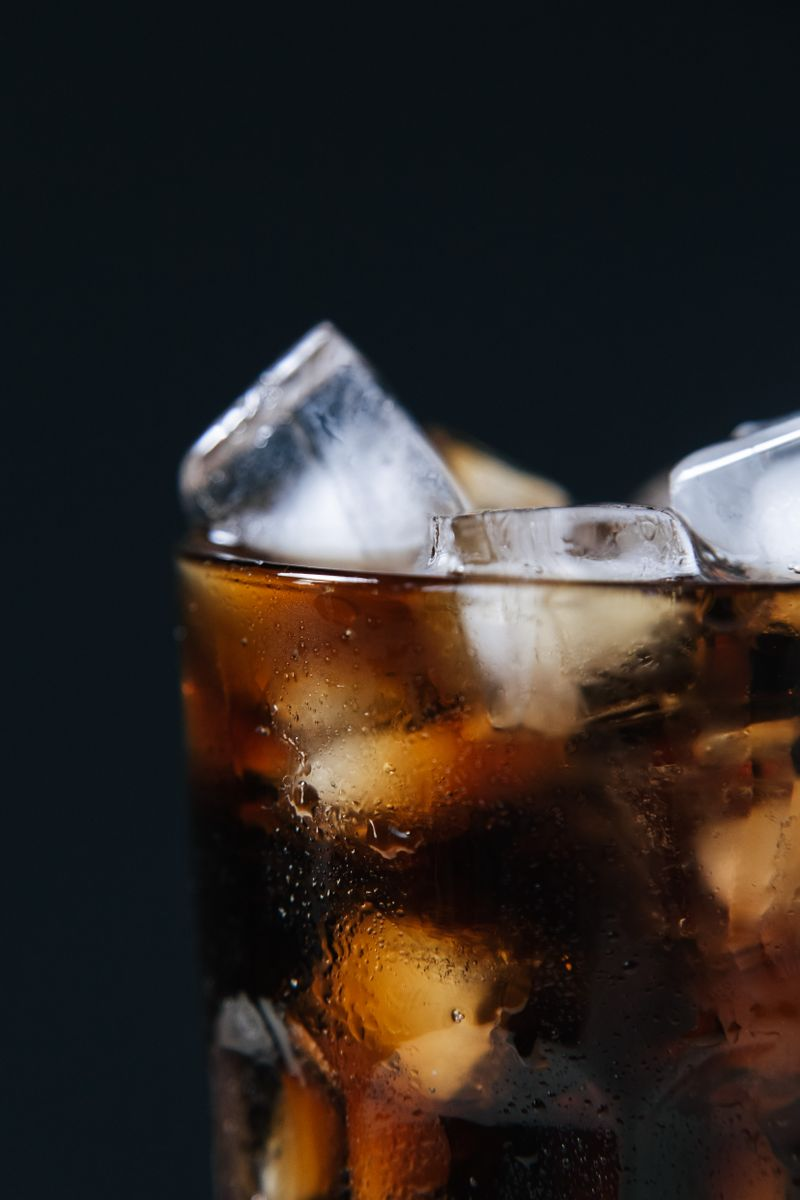
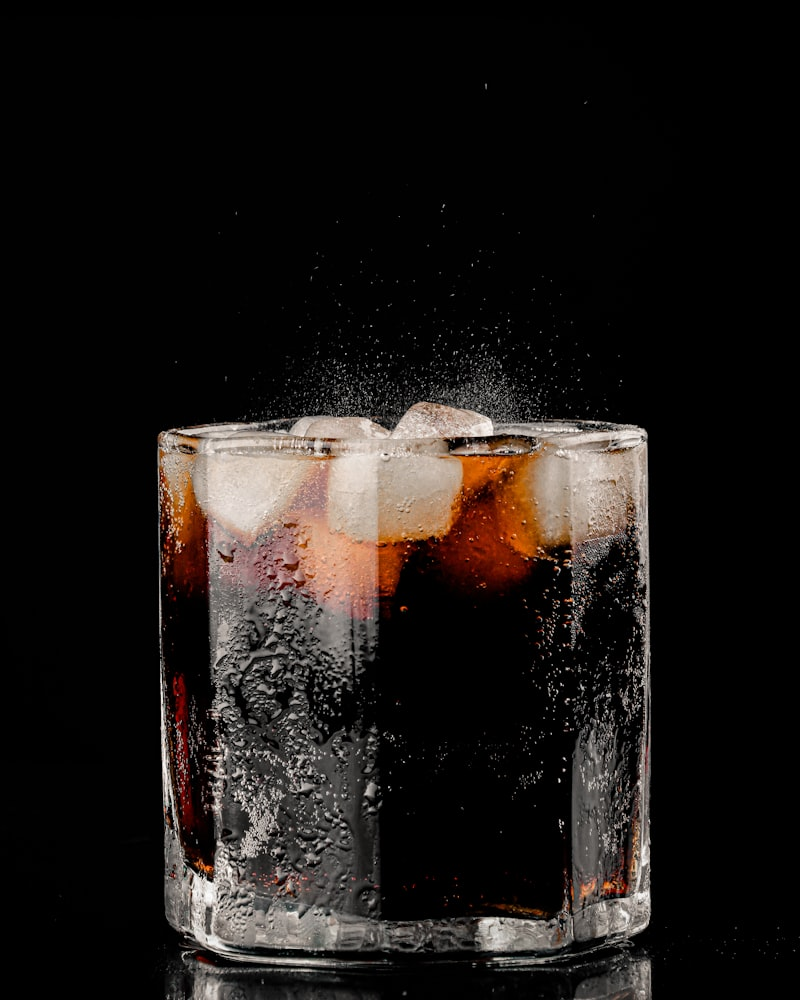
Rename Pepsi Zero to Pepsi Max and swap in a cleaner cola photo
The previous cola image had a blurred can with a reddish label that
risked reading as a rival brand's colors; the new shot is a plain
glass and ice on black with no packaging in frame.

diff --git a/src/data/menu.js b/src/data/menu.js
@@ -13,7 +13,7 @@ export const PIZZA_VARIETIES = [
 
 export const DRINKS = [
   { slug: 'pepsi', brandColor: '#0a4da2', image: '/images/drinks/drink-cola.jpg' },
-  { slug: 'pepsi-zero', brandColor: '#2b2b2b', image: '/images/drinks/drink-cola.jpg' },
+  { slug: 'pepsi-max', brandColor: '#2b2b2b', image: '/images/drinks/drink-cola.jpg' },
   { slug: '7up', brandColor: '#2fa63f', image: '/images/drinks/drink-7up.jpg' },
   { slug: 'yedigun', brandColor: '#f2c400', image: '/images/drinks/drink-yedigun.jpg' },
   { slug: 'lipton-ice-tea', brandColor: '#e8871e' },
